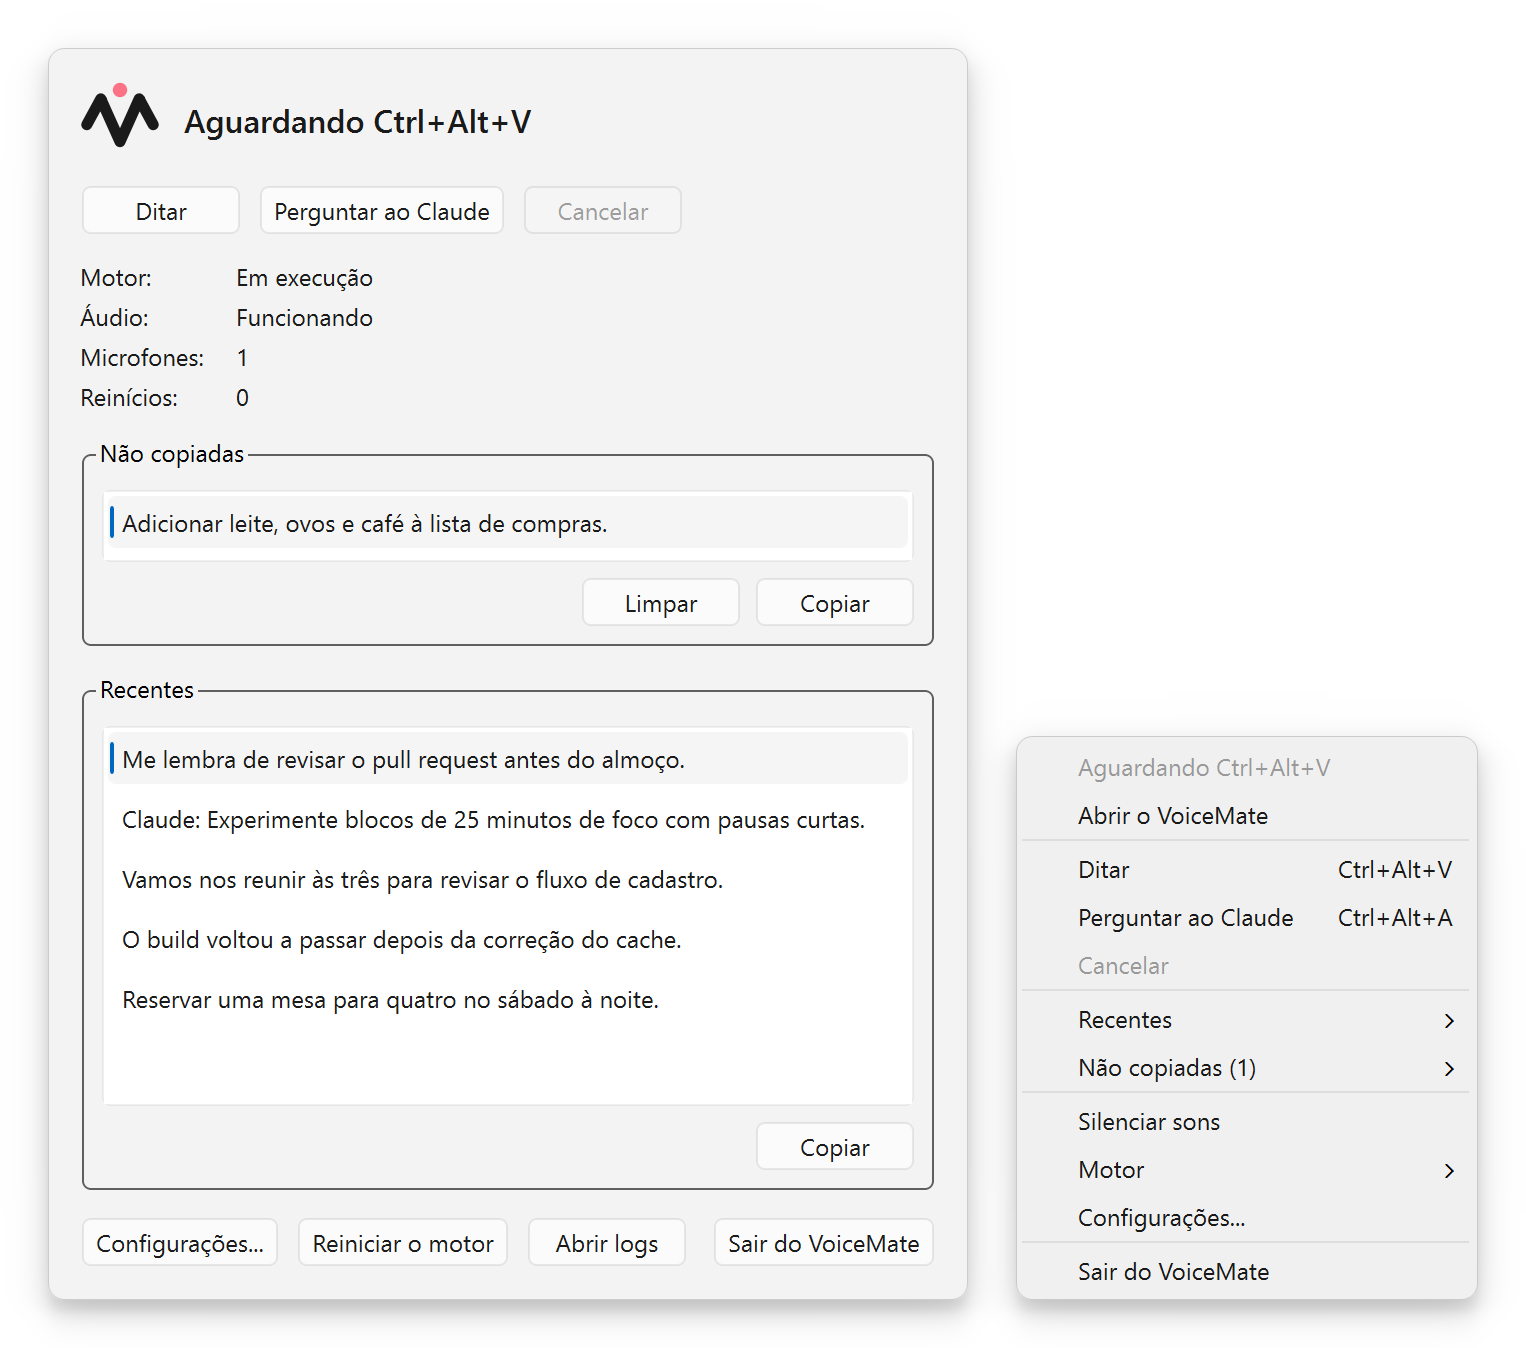
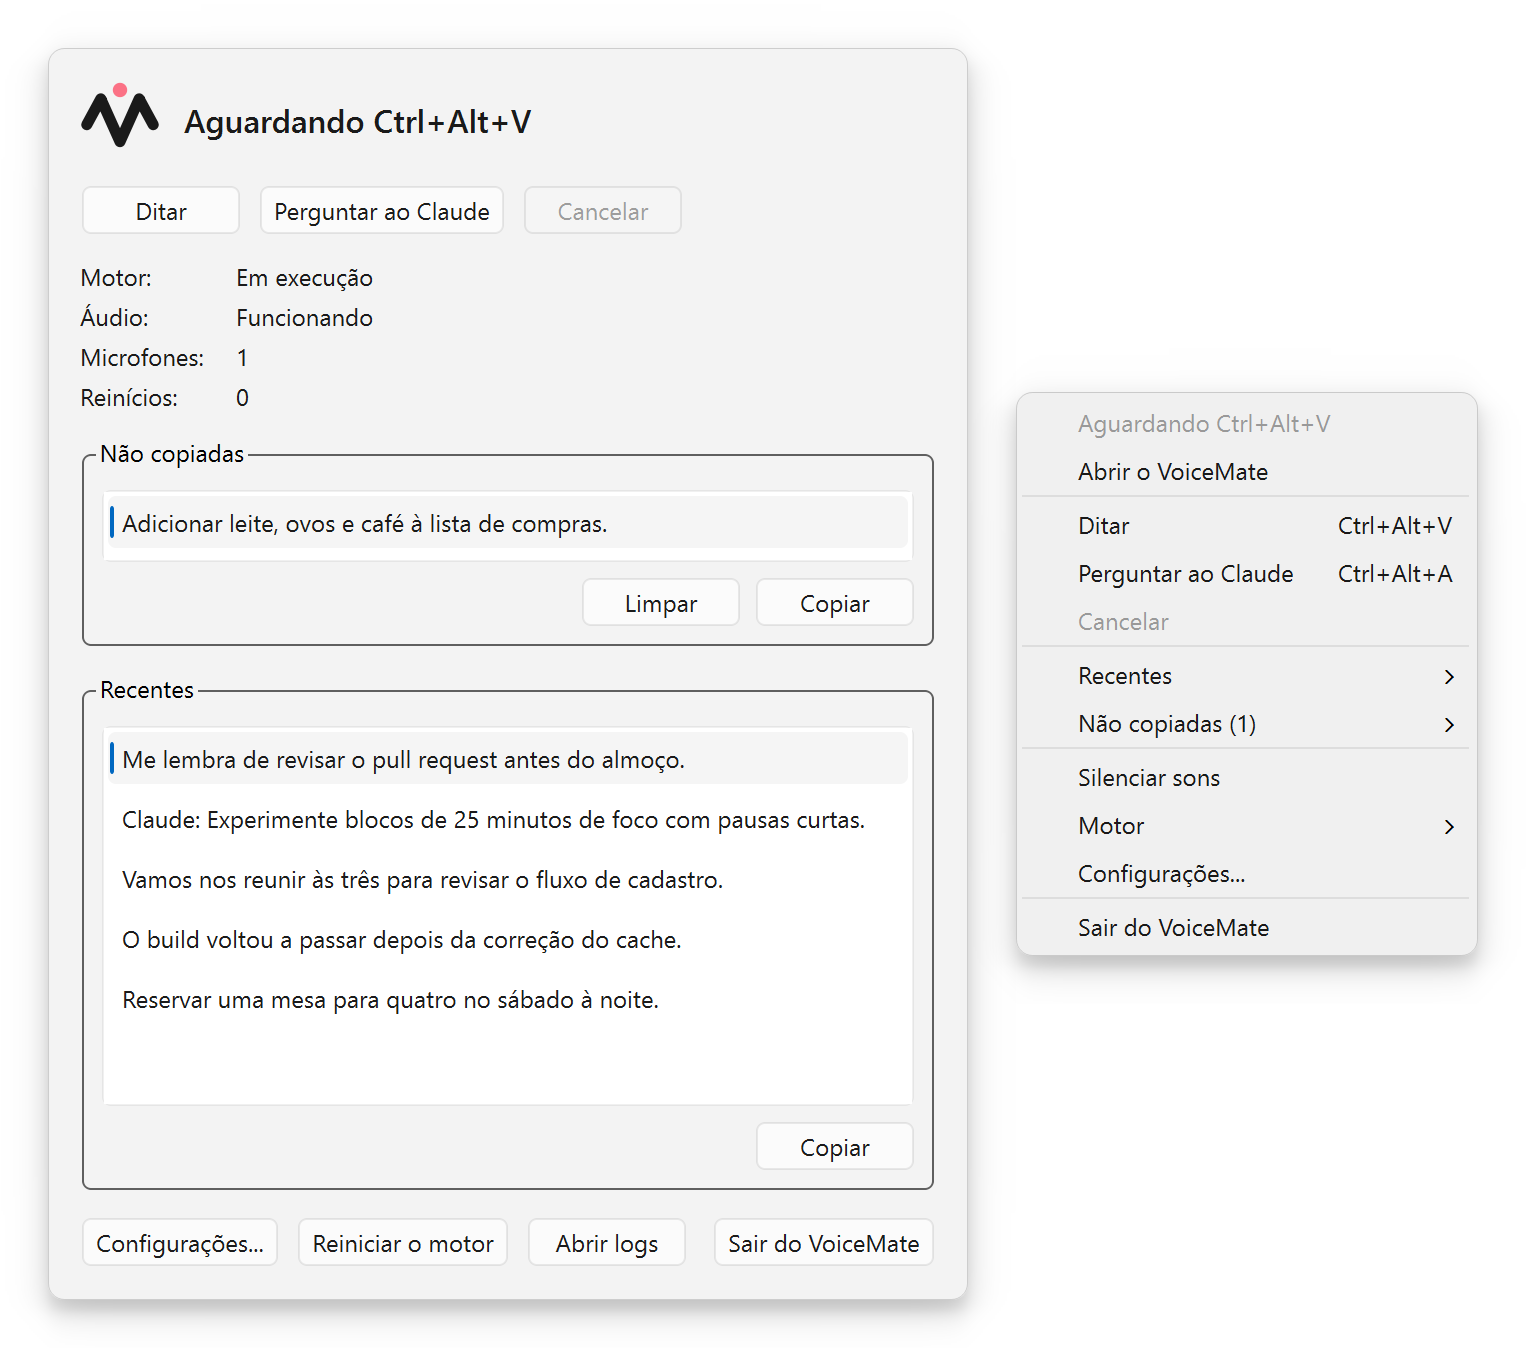
docs(screenshots): apply the review of the screenshots tool and images
The review of the screenshots work asked for a few fixes; this applies all of them.

Tool:
- Fail loudly when the windows11 style is missing instead of silently rendering
  with another style (the images would differ without any warning).
- Say in the module docstring that the tray icon object is built (it reads the
  taskbar theme from the registry, read-only) but never shown.
- Remove the dead `pending` parameter of `_record`.
- Create the temporary catalog folder per language render and remove it in a
  try/finally, so an abnormal exit no longer leaves it in %TEMP% (atexit does
  not run then).
- Document in --help that --out and --brand-out resolve against the repository
  root, and that --brand-out only applies with --lang all.
- Add SCREENSHOT_NAMES and write every image through one helper that checks the
  name, so the tool and the committed files cannot drift apart silently.
- hero.png: center the tray menu vertically next to the status window instead
  of bottom-aligning it, which left the upper right empty. All languages re-rendered.

Tests: the committed images (every language folder, tray-states and the two
banners) must match SCREENSHOT_NAMES, and the platform guard test patches
sys.platform directly.

Makefile: the windows_only message no longer claims docs-screenshots builds the
app, and the pre-existing em dash in a comment is replaced.

Docs: docs/companion-app.md lists tools/render_screenshots.py and the
docs-screenshots target.

diff --git a/tools/render_screenshots.py b/tools/render_screenshots.py
@@ -10,8 +10,9 @@ before it is first shown, so Qt lays it out and paints it without mapping a nati
 `--offscreen` uses Qt's offscreen platform instead (a fallback; its fonts and style differ).
 
 What runs is the real UI (`CompanionUi`, the tray menu, the settings dialog, the question
-boxes) driven by the demo `FakeController`: no engine, no hotkeys, no settings file, no
-tray icon. The sample dictations are generic and written per language below; the engine
+boxes) driven by the demo `FakeController`: no engine, no hotkeys, no settings file, and a
+tray icon object that is built (it reads the taskbar theme from the registry, read-only) but
+never shown. The sample dictations are generic and written per language below; the engine
 settings shown are fixed (the default WSL distro and a `voice-mate` folder), so nothing
 from this computer ends up in the images.
 
@@ -21,9 +22,9 @@ at the size the app opens it with, and fixed sample data: two runs write the sam
 Each language renders in its own process, like the app picks its language once at startup.
 
 Writes (`--lang all`, the default; `--lang <one>` writes only that language's folder):
-- `<out>/<lang>/{status,settings-hotkeys,settings-sounds,settings-general,tray-menu,
-  dialog-restart-wsl,dialog-language}.png`, plus `hero.png`: the status window and the
-  tray menu side by side.
+- `<out>/<lang>/<name>.png` for every name in `SCREENSHOT_NAMES`: the status window, one
+  image per settings tab, the tray menu, the two question boxes and `hero`, the status
+  window and the tray menu side by side.
 - `<out>/tray-states.png`: the tray glyph of every state on a dark and a light taskbar strip.
 - `<brand-out>/banner-light.png` and `banner-dark.png`: the app icon and the wordmark, for
   light and dark page backgrounds.
@@ -36,7 +37,6 @@ not fit its widget is reported as a warning.
 from __future__ import annotations
 
 import argparse
-import atexit
 import os
 import shutil
 import subprocess
@@ -92,6 +92,18 @@ DEFAULT_BRAND_OUT: Final = Path("docs/assets/brand")
 LANGUAGES: Final[dict[str, str]] = {"en": "en", "pt-BR": "pt_BR", "es": "es", "ru": "ru", "zh-CN": "zh_CN"}
 SCALE: Final = 2  # device pixels per logical pixel: crisp when a README shows them at half size
 STYLE: Final = "windows11"
+
+# The images written per language, in the order they are rendered (the READMEs link them).
+SCREENSHOT_NAMES: Final = (
+    "status",
+    "settings-hotkeys",
+    "settings-sounds",
+    "settings-general",
+    "tray-menu",
+    "dialog-restart-wsl",
+    "dialog-language",
+    "hero",
+)
 
 # Framing, in logical pixels.
 FRAME_MARGIN: Final = 24
@@ -206,9 +218,17 @@ def parse_args(argv: Sequence[str] | None = None) -> argparse.Namespace:
         description="Render the README screenshots and brand banners from the companion UI (Windows only).",
     )
     parser.add_argument("--lang", choices=[*LANGUAGES, "all"], default="all", help="README language (default: all).")
-    parser.add_argument("--out", type=Path, default=DEFAULT_OUT, help=f"Screenshots folder (default: {DEFAULT_OUT}).")
     parser.add_argument(
-        "--brand-out", type=Path, default=DEFAULT_BRAND_OUT, help=f"Banner folder (default: {DEFAULT_BRAND_OUT})."
+        "--out",
+        type=Path,
+        default=DEFAULT_OUT,
+        help=f"Screenshots folder, relative to the repository root, not the current folder (default: {DEFAULT_OUT}).",
+    )
+    parser.add_argument(
+        "--brand-out",
+        type=Path,
+        default=DEFAULT_BRAND_OUT,
+        help=f"Banner folder, relative to the repository root; only used with --lang all (default: {DEFAULT_BRAND_OUT}).",
     )
     parser.add_argument(
         "--offscreen", action="store_true", help="Use Qt's offscreen platform instead of the hidden Windows one."
@@ -277,8 +297,9 @@ def _application(offscreen: bool) -> QApplication:
     qapp.installEventFilter(hider)
     _FILTERS.append(hider)
     QGuiApplication.styleHints().setColorScheme(Qt.ColorScheme.Light)
-    if STYLE in (key.lower() for key in QStyleFactory.keys()):
-        qapp.setStyle(STYLE)
+    if STYLE not in (key.lower() for key in QStyleFactory.keys()):
+        raise SystemExit(f"the {STYLE} style is not available in this Qt; the screenshots would not match")
+    qapp.setStyle(STYLE)
     qapp.setFont(QFont("Segoe UI", 9))
     ratio = qapp.primaryScreen().devicePixelRatio()
     if ratio != SCALE:
@@ -287,13 +308,12 @@ def _application(offscreen: bool) -> QApplication:
 
 
 def _compile_catalogs() -> Path:
-    """The .mo files are not in git: compile every .po into a temporary folder (removed at
-    exit), so the checkout's own locales folder is never written."""
+    """The .mo files are not in git: compile every .po into a new temporary folder (the
+    caller removes it), so the checkout's own locales folder is never written."""
     from babel.messages.mofile import write_mo
     from babel.messages.pofile import read_po
 
     locales = Path(tempfile.mkdtemp(prefix="voicemate-shots-"))
-    atexit.register(shutil.rmtree, locales, ignore_errors=True)
     for po in LOCALES_DIR.glob("*/LC_MESSAGES/voicemate.po"):
         catalog = po.parents[1].name
         with po.open("rb") as source:
@@ -335,7 +355,7 @@ class _SampleController(FakeController):
         self._next_seq = len(samples.recent) + 1
 
 
-def _record(seq: int, text: str, kind: ResultKind, pending: bool = False) -> ResultRecord:
+def _record(seq: int, text: str, kind: ResultKind) -> ResultRecord:
     return ResultRecord(
         result_seq=seq,
         op_seq=seq,
@@ -345,15 +365,24 @@ def _record(seq: int, text: str, kind: ResultKind, pending: bool = False) -> Res
         final=True,
         created_ts=0.0,
         age_s=0.0,
-        delivery="pending" if pending else "delivered",
+        delivery="delivered",
     )
 
 
 def _render_language(language: str, out: Path, offscreen: bool) -> int:
+    qapp = _application(offscreen)
+    locales = _compile_catalogs()
+    try:
+        # The catalogs are read on demand by the UI: the folder must outlive the whole render.
+        return _render_with_catalogs(qapp, language, out, locales)
+    finally:
+        shutil.rmtree(locales, ignore_errors=True)
+
+
+def _render_with_catalogs(qapp: QApplication, language: str, out: Path, locales: Path) -> int:
     import app.i18n as i18n
 
-    qapp = _application(offscreen)
-    i18n._LOCALES_DIR = _compile_catalogs()
+    i18n._LOCALES_DIR = locales
     i18n.set_language(language)  # type: ignore[arg-type]
     catalog = LANGUAGES[language]
     if i18n.active_language() != catalog:
@@ -388,7 +417,8 @@ def _render_language(language: str, out: Path, offscreen: bool) -> int:
     status.present()
     _pump(qapp)
     status_image = _grab(status, "status", warnings)
-    save_png(frame(status_image), target / "status.png")
+    written: set[str] = set()
+    _save(target, "status", frame(status_image), written)
     status.hide()
 
     # Settings, one image per tab, in the dialog's own tab order.
@@ -410,14 +440,14 @@ def _render_language(language: str, out: Path, offscreen: bool) -> int:
     for page, name in sorted(pages, key=lambda pair: tabs.indexOf(pair[0])):
         tabs.setCurrentWidget(page)
         _pump(qapp)
-        save_png(frame(_grab(dialog, name, warnings)), target / f"{name}.png")
+        _save(target, name, frame(_grab(dialog, name, warnings)), written)
     dialog.hide()
 
     # The tray menu, as a right click on the tray icon opens it.
     tray = ui.tray
     assert tray is not None
     menu_image = _grab_menu(qapp, tray.menu, warnings)
-    save_png(frame(menu_image), target / "tray-menu.png")
+    _save(target, "tray-menu", frame(menu_image), written)
 
     # Question boxes.
     for name, opener, attribute in (
@@ -425,9 +455,11 @@ def _render_language(language: str, out: Path, offscreen: bool) -> int:
         ("dialog-language", ui.offer_language_restart, "_language_box"),
     ):
         image = _grab_question(qapp, opener, partial(getattr, ui, attribute), name, warnings)
-        save_png(frame(image), target / f"{name}.png")
+        _save(target, name, frame(image), written)
 
-    save_png(hero(status_image, menu_image), target / "hero.png")
+    _save(target, "hero", hero(status_image, menu_image), written)
+    if written != set(SCREENSHOT_NAMES):
+        raise SystemExit(f"rendered {sorted(written)}, expected {sorted(SCREENSHOT_NAMES)}")
 
     for warning in warnings:
         print(f"warning: {language}: {warning}")
@@ -435,6 +467,13 @@ def _render_language(language: str, out: Path, offscreen: bool) -> int:
     ui.bridge.detach()
     del translator
     return 0
+
+
+def _save(target: Path, name: str, image: QImage, written: set[str]) -> None:
+    if name not in SCREENSHOT_NAMES:
+        raise SystemExit(f"{name} is not in SCREENSHOT_NAMES")
+    save_png(image, target / f"{name}.png")
+    written.add(name)
 
 
 def _grab(widget: QWidget, name: str, warnings: list[str]) -> QImage:
@@ -558,7 +597,7 @@ def _at_device_pixels(image: QImage) -> QImage:
 
 
 def hero(status: QImage, menu: QImage) -> QImage:
-    """The status window and the tray menu side by side, bottoms aligned, framed together."""
+    """The status window and the tray menu side by side, vertically centred, framed together."""
     status, menu = frame(status), frame(menu)
     overlap = (2 * FRAME_MARGIN - HERO_GAP) * SCALE  # their shared margin shrinks to the gap
     width = status.width() + menu.width() - overlap
@@ -566,8 +605,8 @@ def hero(status: QImage, menu: QImage) -> QImage:
     out = QImage(width, height, QImage.Format.Format_ARGB32_Premultiplied)
     out.fill(Qt.GlobalColor.transparent)
     painter = QPainter(out)
-    painter.drawImage(0, height - status.height(), status)
-    painter.drawImage(status.width() - overlap, height - menu.height(), menu)
+    painter.drawImage(0, (height - status.height()) // 2, status)
+    painter.drawImage(status.width() - overlap, (height - menu.height()) // 2, menu)
     painter.end()
     return out
 

diff --git a/tests/companion/ui/test_render_screenshots_tool.py b/tests/companion/ui/test_render_screenshots_tool.py
@@ -2,6 +2,7 @@
 
 from __future__ import annotations
 
+import sys
 from pathlib import Path
 from typing import get_args
 
@@ -12,7 +13,10 @@ pytest.importorskip("PySide6")
 from app.companion.contract import TrayState, UiLanguage  # noqa: E402
 from tools import render_screenshots  # noqa: E402
 
-LOCALES = Path(__file__).resolve().parents[3] / "app" / "i18n" / "locales"
+REPO_ROOT = Path(__file__).resolve().parents[3]
+LOCALES = REPO_ROOT / "app" / "i18n" / "locales"
+SHOTS = REPO_ROOT / "docs" / "assets" / "screenshots"
+BRAND = REPO_ROOT / "docs" / "assets" / "brand"
 
 
 def test_one_screenshot_language_per_shipped_catalog() -> None:
@@ -35,6 +39,16 @@ def test_tray_states_image_shows_every_state_once() -> None:
     assert sorted(render_screenshots.TRAY_STATES) == sorted(get_args(TrayState))
 
 
+def test_committed_images_match_the_tool() -> None:
+    """A renamed, added or deleted image must come with a re-render (the READMEs link them)."""
+    for language in render_screenshots.LANGUAGES:
+        committed = {png.stem for png in (SHOTS / language).glob("*.png")}
+        assert committed == set(render_screenshots.SCREENSHOT_NAMES), language
+    assert (SHOTS / "tray-states.png").is_file()
+    assert (BRAND / "banner-light.png").is_file()
+    assert (BRAND / "banner-dark.png").is_file()
+
+
 def test_refuses_to_run_outside_windows(monkeypatch: pytest.MonkeyPatch) -> None:
-    monkeypatch.setattr(render_screenshots.sys, "platform", "linux")
+    monkeypatch.setattr(sys, "platform", "linux")
     assert render_screenshots.main([]) == 2

diff --git a/docs/companion-app.md b/docs/companion-app.md
@@ -720,7 +720,8 @@ app/companion/         contract.py, controller.py, client.py, model.py, settings
 app/companion/assets/  voicemate.ico, voicemate-<size>.png (generated by tools/gen_icon.py)
 packaging/windows/     voicemate-companion.spec, voicemate_launcher.py, voicemate-companion.iss
 packaging/linux/       voicemate-companion.desktop (launcher template)
-tools/                 gen_icon.py (icons), build_installer.py (finds ISCC, `make companion-installer`)
+tools/                 gen_icon.py (icons), build_installer.py (finds ISCC, `make companion-installer`),
+                       render_screenshots.py (README screenshots and banners, `make docs-screenshots`)
 requirements/          companion.txt, companion-dev.txt, companion-constraints.txt
 tests/companion/, tests/daemon/, tests/test_import_boundary.py, tests/test_companion_packaging.py
 ```
@@ -734,4 +735,4 @@ Companion dependencies have one source, `requirements/companion.txt`; the poetry
 extra `ui` lists the same packages and a test checks they match.
 
 Makefile: `companion-venv`, `companion-test`, `companion-lint`, `run-tray`,
-`run-engine`, `companion-build`, `companion-installer`.
+`run-engine`, `companion-build`, `companion-installer`, `docs-screenshots`.
